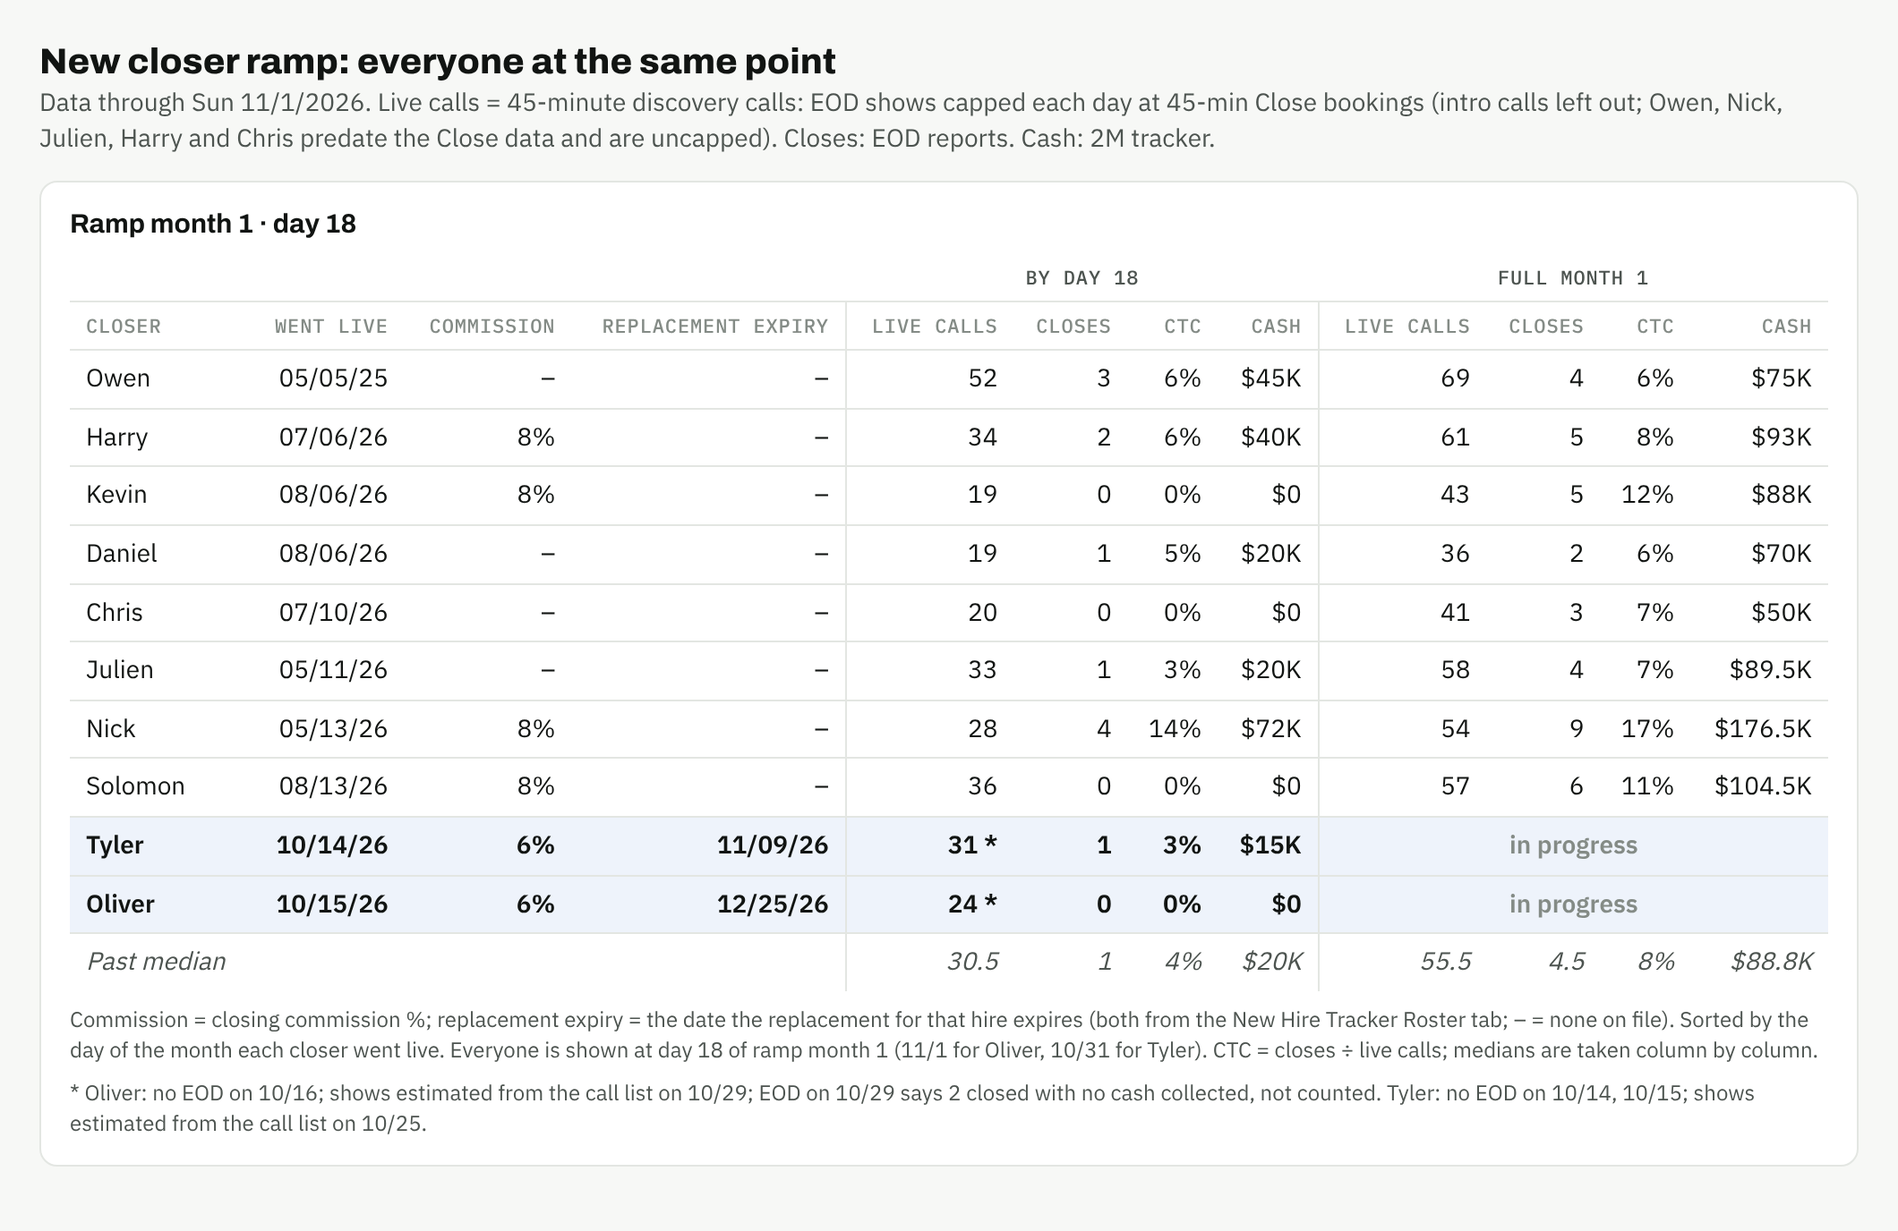
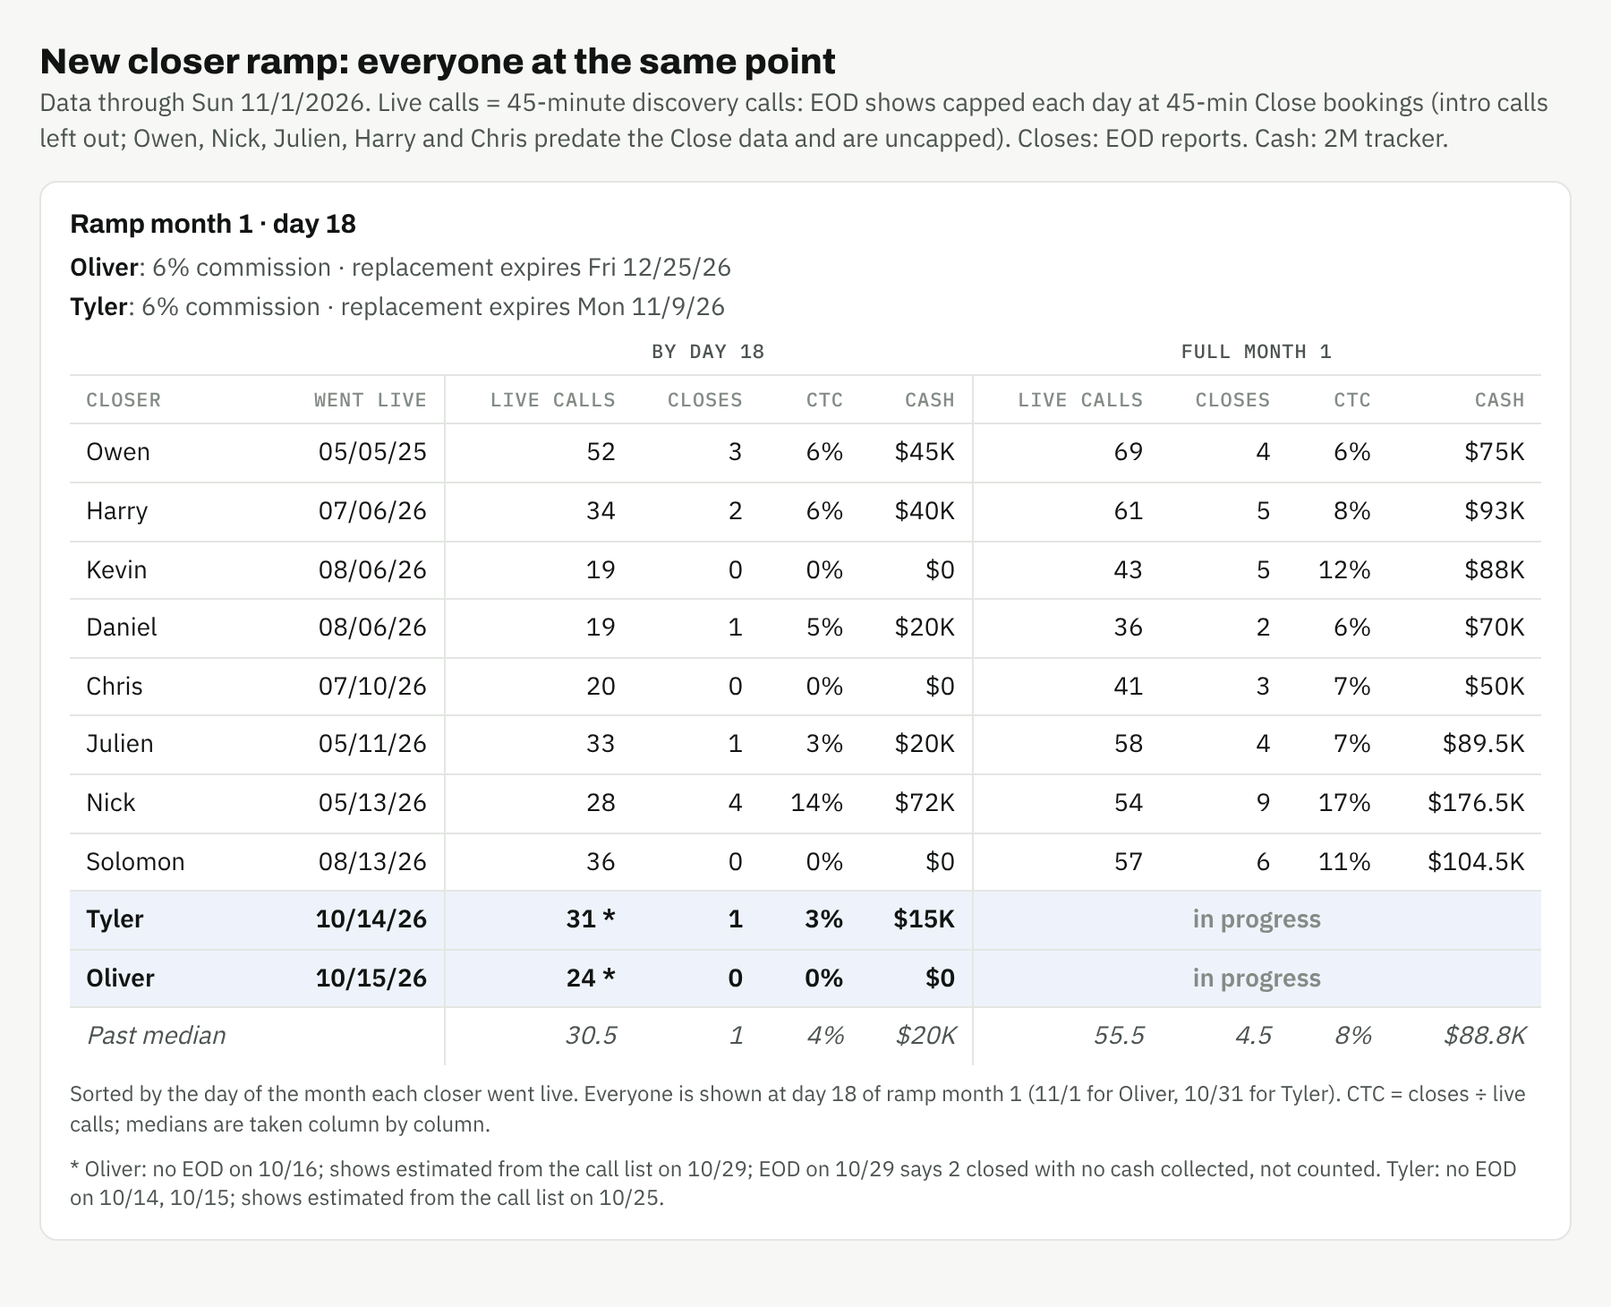
Ramp table: commission and replacement expiry as subtitles for the ramping reps
Replaces the two columns, which were blank or uniform for everyone else, with one line
per ramping rep under the table title.

Claude-Session: https://claude.ai/code/session_01D9LMPQn5wBkznxh856E6g3

diff --git a/outputs/2026-11-02/weekly_table.html b/outputs/2026-11-02/weekly_table.html
@@ -1,7 +1,7 @@
 <!doctype html><html><head><meta charset='utf-8'><link rel='stylesheet' href='https://fonts.googleapis.com/css2?family=Archivo:wght@700;800&family=IBM+Plex+Sans:wght@400;600&family=IBM+Plex+Mono:wght@500&display=swap'><style>
 :root{--ink:#111412;--ink2:#4d5450;--muted:#848b86;--grid:#e3e6e2;--bg:#f7f8f6;--card:#fff;--hl:#eef3fb}
 *{box-sizing:border-box}body{margin:0;background:var(--bg);font:14px/1.4 'IBM Plex Sans',-apple-system,'Segoe UI',Helvetica,Arial,sans-serif;color:var(--ink)}
-.wrap{width:1060px;padding:22px}
+.wrap{width:900px;padding:22px}
 h1{font:800 20px/1.2 Archivo,-apple-system,'Segoe UI',sans-serif;margin:0 0 2px}.lede{color:var(--ink2);margin:0 0 14px}
 section{background:var(--card);border:1px solid var(--grid);border-radius:10px;padding:14px 16px;margin-bottom:14px}
 h2{font:700 15px/1.2 Archivo,-apple-system,'Segoe UI',sans-serif;margin:0 0 8px}
@@ -15,4 +15,6 @@ tr.cur td{font-weight:600;background:var(--hl)}
 td.ip{text-align:center;color:var(--muted);font-weight:400}
 tr.med td{color:var(--ink2);font-style:italic;border-bottom:none}
 .foot{font-size:12px;color:var(--ink2);margin:8px 0 0}
-</style></head><body><div class='wrap'><h1>New closer ramp: everyone at the same point</h1><p class='lede'>Data through Sun 11/1/2026. Live calls = 45-minute discovery calls: EOD shows capped each day at 45-min Close bookings (intro calls left out; Owen, Nick, Julien, Harry and Chris predate the Close data and are uncapped). Closes: EOD reports. Cash: 2M tracker.</p><section><h2>Ramp month 1 · day 18</h2><table><thead><tr><th></th><th></th><th></th><th></th><th colspan="4" class="grp">By day 18</th><th colspan="4" class="grp">Full month 1</th></tr><tr><th>Closer</th><th>Went live</th><th>Commission</th><th>Replacement expiry</th><th class="gs">Live calls</th><th>Closes</th><th>CTC</th><th>Cash</th><th class="gs">Live calls</th><th>Closes</th><th>CTC</th><th>Cash</th></tr></thead><tbody><tr><td>Owen</td><td>05/05/25</td><td>–</td><td>–</td><td class="gs">52</td><td>3</td><td>6%</td><td>$45K</td><td class="gs">69</td><td>4</td><td>6%</td><td>$75K</td></tr><tr><td>Harry</td><td>07/06/26</td><td>8%</td><td>–</td><td class="gs">34</td><td>2</td><td>6%</td><td>$40K</td><td class="gs">61</td><td>5</td><td>8%</td><td>$93K</td></tr><tr><td>Kevin</td><td>08/06/26</td><td>8%</td><td>–</td><td class="gs">19</td><td>0</td><td>0%</td><td>$0</td><td class="gs">43</td><td>5</td><td>12%</td><td>$88K</td></tr><tr><td>Daniel</td><td>08/06/26</td><td>–</td><td>–</td><td class="gs">19</td><td>1</td><td>5%</td><td>$20K</td><td class="gs">36</td><td>2</td><td>6%</td><td>$70K</td></tr><tr><td>Chris</td><td>07/10/26</td><td>–</td><td>–</td><td class="gs">20</td><td>0</td><td>0%</td><td>$0</td><td class="gs">41</td><td>3</td><td>7%</td><td>$50K</td></tr><tr><td>Julien</td><td>05/11/26</td><td>–</td><td>–</td><td class="gs">33</td><td>1</td><td>3%</td><td>$20K</td><td class="gs">58</td><td>4</td><td>7%</td><td>$89.5K</td></tr><tr><td>Nick</td><td>05/13/26</td><td>8%</td><td>–</td><td class="gs">28</td><td>4</td><td>14%</td><td>$72K</td><td class="gs">54</td><td>9</td><td>17%</td><td>$176.5K</td></tr><tr><td>Solomon</td><td>08/13/26</td><td>8%</td><td>–</td><td class="gs">36</td><td>0</td><td>0%</td><td>$0</td><td class="gs">57</td><td>6</td><td>11%</td><td>$104.5K</td></tr><tr class="cur"><td>Tyler</td><td>10/14/26</td><td>6%</td><td>11/09/26</td><td class="gs">31 *</td><td>1</td><td>3%</td><td>$15K</td><td class="gs ip" colspan="4">in progress</td></tr><tr class="cur"><td>Oliver</td><td>10/15/26</td><td>6%</td><td>12/25/26</td><td class="gs">24 *</td><td>0</td><td>0%</td><td>$0</td><td class="gs ip" colspan="4">in progress</td></tr><tr class="med"><td>Past median</td><td></td><td></td><td></td><td class="gs">30.5</td><td>1</td><td>4%</td><td>$20K</td><td class="gs">55.5</td><td>4.5</td><td>8%</td><td>$88.8K</td></tr></tbody></table><p class="foot">Commission = closing commission %; replacement expiry = the date the replacement for that hire expires (both from the New Hire Tracker Roster tab; – = none on file). Sorted by the day of the month each closer went live. Everyone is shown at day 18 of ramp month 1 (11/1 for Oliver, 10/31 for Tyler). CTC = closes ÷ live calls; medians are taken column by column.</p><p class="foot">* Oliver: no EOD on 10/16; shows estimated from the call list on 10/29; EOD on 10/29 says 2 closed with no cash collected, not counted. Tyler: no EOD on 10/14, 10/15; shows estimated from the call list on 10/25.</p></section></div></body></html>
+.sub{margin:0 0 2px;color:var(--ink2)}.sub b{color:var(--ink)}
+section h2+.sub{margin-top:-2px}section .sub:last-of-type{margin-bottom:10px}
+</style></head><body><div class='wrap'><h1>New closer ramp: everyone at the same point</h1><p class='lede'>Data through Sun 11/1/2026. Live calls = 45-minute discovery calls: EOD shows capped each day at 45-min Close bookings (intro calls left out; Owen, Nick, Julien, Harry and Chris predate the Close data and are uncapped). Closes: EOD reports. Cash: 2M tracker.</p><section><h2>Ramp month 1 · day 18</h2><p class="sub"><b>Oliver</b>: 6% commission · replacement expires Fri 12/25/26</p><p class="sub"><b>Tyler</b>: 6% commission · replacement expires Mon 11/9/26</p><table><thead><tr><th></th><th></th><th colspan="4" class="grp">By day 18</th><th colspan="4" class="grp">Full month 1</th></tr><tr><th>Closer</th><th>Went live</th><th class="gs">Live calls</th><th>Closes</th><th>CTC</th><th>Cash</th><th class="gs">Live calls</th><th>Closes</th><th>CTC</th><th>Cash</th></tr></thead><tbody><tr><td>Owen</td><td>05/05/25</td><td class="gs">52</td><td>3</td><td>6%</td><td>$45K</td><td class="gs">69</td><td>4</td><td>6%</td><td>$75K</td></tr><tr><td>Harry</td><td>07/06/26</td><td class="gs">34</td><td>2</td><td>6%</td><td>$40K</td><td class="gs">61</td><td>5</td><td>8%</td><td>$93K</td></tr><tr><td>Kevin</td><td>08/06/26</td><td class="gs">19</td><td>0</td><td>0%</td><td>$0</td><td class="gs">43</td><td>5</td><td>12%</td><td>$88K</td></tr><tr><td>Daniel</td><td>08/06/26</td><td class="gs">19</td><td>1</td><td>5%</td><td>$20K</td><td class="gs">36</td><td>2</td><td>6%</td><td>$70K</td></tr><tr><td>Chris</td><td>07/10/26</td><td class="gs">20</td><td>0</td><td>0%</td><td>$0</td><td class="gs">41</td><td>3</td><td>7%</td><td>$50K</td></tr><tr><td>Julien</td><td>05/11/26</td><td class="gs">33</td><td>1</td><td>3%</td><td>$20K</td><td class="gs">58</td><td>4</td><td>7%</td><td>$89.5K</td></tr><tr><td>Nick</td><td>05/13/26</td><td class="gs">28</td><td>4</td><td>14%</td><td>$72K</td><td class="gs">54</td><td>9</td><td>17%</td><td>$176.5K</td></tr><tr><td>Solomon</td><td>08/13/26</td><td class="gs">36</td><td>0</td><td>0%</td><td>$0</td><td class="gs">57</td><td>6</td><td>11%</td><td>$104.5K</td></tr><tr class="cur"><td>Tyler</td><td>10/14/26</td><td class="gs">31 *</td><td>1</td><td>3%</td><td>$15K</td><td class="gs ip" colspan="4">in progress</td></tr><tr class="cur"><td>Oliver</td><td>10/15/26</td><td class="gs">24 *</td><td>0</td><td>0%</td><td>$0</td><td class="gs ip" colspan="4">in progress</td></tr><tr class="med"><td>Past median</td><td></td><td class="gs">30.5</td><td>1</td><td>4%</td><td>$20K</td><td class="gs">55.5</td><td>4.5</td><td>8%</td><td>$88.8K</td></tr></tbody></table><p class="foot">Sorted by the day of the month each closer went live. Everyone is shown at day 18 of ramp month 1 (11/1 for Oliver, 10/31 for Tyler). CTC = closes ÷ live calls; medians are taken column by column.</p><p class="foot">* Oliver: no EOD on 10/16; shows estimated from the call list on 10/29; EOD on 10/29 says 2 closed with no cash collected, not counted. Tyler: no EOD on 10/14, 10/15; shows estimated from the call list on 10/25.</p></section></div></body></html>

diff --git a/outputs/2026-11-02/ramp_curve.html b/outputs/2026-11-02/ramp_curve.html
@@ -15,7 +15,7 @@
   --bg:#121413; --surface:#1a1c1b; --ink:#eef0ed; --ink2:#c0c5c1; --muted:#8e958f; --grid:#2c302d;
   --past:#4a504c; --median:#c0c5c1; --oliver:#3987e5; --tyler:#d95926; --target:#2fa52f; --floor:#d9a12a; color-scheme:dark}
 body{background:var(--bg);color:var(--ink);font:15px/1.5 var(--body)}
-.wrap{max-width:1120px;margin:0 auto;padding-block:28px 48px;padding-left:max(16px,env(safe-area-inset-left,0px));padding-right:max(16px,env(safe-area-inset-right,0px));display:flex;flex-direction:column;gap:22px}
+.wrap{max-width:880px;margin:0 auto;padding-block:28px 48px;padding-left:max(16px,env(safe-area-inset-left,0px));padding-right:max(16px,env(safe-area-inset-right,0px));display:flex;flex-direction:column;gap:22px}
 h1{font:800 clamp(24px,4vw,32px)/1.1 var(--display);margin:0;text-wrap:balance;letter-spacing:-.01em}
 h2{font:700 18px/1.2 var(--display);margin:0}
 .lede{color:var(--ink2);margin:6px 0 0;max-width:68ch}
@@ -51,6 +51,9 @@ thead th.grp{text-align:center;border-bottom:1px solid var(--grid);color:var(--i
 td.gs,thead tr:last-child th.gs{border-left:1px solid var(--grid)}
 .notes{font-size:13px;color:var(--ink2);display:flex;flex-direction:column;gap:6px;max-width:72ch}
 .notes p{margin:0}
+.subs{display:flex;flex-direction:column;gap:2px;color:var(--ink2);font-size:14px}
+.subs b{color:var(--ink);font-weight:600}
+.subs .sw{width:10px;height:10px;margin-right:6px;vertical-align:0}
 </style>
 
 <div class="wrap">
@@ -63,6 +66,7 @@ td.gs,thead tr:last-child th.gs{border-left:1px solid var(--grid)}
 
   <section class="card">
     <h2 id="tabletitle"></h2>
+    <div id="subs" class="subs"></div>
     <div class="tablewrap"><table id="tbl"></table></div>
   </section>
 
@@ -89,6 +93,8 @@ const MED = {cash: medianSeries("cash"), live: medianSeries("live")};
 // Standings table: same-day columns, then full month 1 for past closers.
 const D = Math.min(...CUR.map(n=>DATA[n].cash.length)), LD = Math.min(...CUR.map(n=>DATA[n].live.length));
 document.getElementById("tabletitle").textContent = `Everyone at the same point in month 1`;
+const expLong = n => { const x = ROSTER[n] && ROSTER[n].x; if (!x) return null; const dt = new Date(x + "T12:00:00"); return dt.toLocaleDateString("en-US", {weekday:"short", month:"numeric", day:"numeric", year:"2-digit"}); };
+document.getElementById("subs").innerHTML = CUR.map(n => { const bits = []; if (ROSTER[n] && ROSTER[n].c != null) bits.push(comm(n) + " commission"); const e = expLong(n); if (e) bits.push("replacement expires " + e); return bits.length ? `<div><span class="sw" style="background:${COLOR[n]}"></span><b>${n}</b>: ${bits.join(" · ")}</div>` : ""; }).join("");
 const pct = (c,l) => l ? Math.round(c/l*100) + "%" : "–";
 const rows = Object.keys(DATA).map(n => { const d = DATA[n], f = d.current ? null : d.live.length - 1;
   return {n, cur:d.current, cash:d.cash[D-1], live:d.live[LD-1], cl:d.closes[LD-1],
@@ -99,13 +105,13 @@ const mdCtc = k => median(P.map(r => r[k[1]] ? r[k[0]]/r[k[1]] : 0));
 const sw = r => r.cur ? `<span class="sw" style="background:${COLOR[r.n]};margin-right:8px;vertical-align:-1px"></span>` : "";
 const star = r => r.cur ? " *" : "";
 document.getElementById("tbl").innerHTML =
-  `<thead><tr><th></th><th></th><th></th><th></th><th colspan="4" class="grp">By day ${D}</th><th colspan="4" class="grp">Full month 1</th></tr>
-   <tr><th>Closer</th><th>Went live</th><th>Commission</th><th>Replacement expiry</th><th>Live calls</th><th>Closes</th><th>CTC</th><th>Cash</th><th>Live calls</th><th>Closes</th><th>CTC</th><th>Cash</th></tr></thead><tbody>` +
-  rows.map(r=>`<tr class="${r.cur?"cur":""}"><td>${sw(r)}${r.n}</td><td>${DATA[r.n].go_live.slice(5).replace("-","/")}/${DATA[r.n].go_live.slice(2,4)}</td><td>${comm(r.n)}</td><td>${expiry(r.n)}</td>
+  `<thead><tr><th></th><th></th><th colspan="4" class="grp">By day ${D}</th><th colspan="4" class="grp">Full month 1</th></tr>
+   <tr><th>Closer</th><th>Went live</th><th>Live calls</th><th>Closes</th><th>CTC</th><th>Cash</th><th>Live calls</th><th>Closes</th><th>CTC</th><th>Cash</th></tr></thead><tbody>` +
+  rows.map(r=>`<tr class="${r.cur?"cur":""}"><td>${sw(r)}${r.n}</td><td>${DATA[r.n].go_live.slice(5).replace("-","/")}/${DATA[r.n].go_live.slice(2,4)}</td>
     <td class="gs">${r.live}${star(r)}</td><td>${r.cl}</td><td>${pct(r.cl,r.live)}</td><td>${fmt$(r.cash)}</td>
     ${r.cur ? `<td class="gs" colspan="4" style="text-align:center;color:var(--muted);font-weight:400">in progress</td>` :
       `<td class="gs">${r.fLive}</td><td>${r.fCl}</td><td>${pct(r.fCl,r.fLive)}</td><td>${fmt$(r.fCash)}</td>`}</tr>`).join("") +
-  `<tr class="med"><td>Past median</td><td></td><td></td><td></td><td class="gs">${md("live")}</td><td>${md("cl")}</td><td>${Math.round(mdCtc(["cl","live"])*100)}%</td><td>${fmt$(md("cash"))}</td>
+  `<tr class="med"><td>Past median</td><td></td><td class="gs">${md("live")}</td><td>${md("cl")}</td><td>${Math.round(mdCtc(["cl","live"])*100)}%</td><td>${fmt$(md("cash"))}</td>
     <td class="gs">${md("fLive")}</td><td>${md("fCl")}</td><td>${Math.round(mdCtc(["fCl","fLive"])*100)}%</td><td>${fmt$(md("fCash"))}</td></tr></tbody>`;
-document.getElementById("tbl").insertAdjacentHTML("afterend", `<p class="foot">Commission = closing commission %. Replacement expiry = the date the replacement for that hire expires. Both come from the New Hire Tracker Roster tab, and – means none on file. Sorted by the day of the month each closer went live. Everyone is shown at day ${D}, which is 11/1 for Oliver and 10/31 for Tyler. Live calls = 45-minute discovery calls only: each day's EOD shows are capped at that day's 45-minute bookings in Close, so 15-minute intro (setter) calls aren't counted. Kevin, Daniel and Solomon are capped the same way; Owen, Nick, Julien, Harry and Chris ramped before the Close data I have (it starts 8/1), so theirs are uncapped EOD shows. CTC = closes ÷ live calls. Medians are taken column by column, so the median CTC isn't the median closes ÷ median live calls.<br>* Oliver's 10/29 EOD says 2 closed, but it collected $0, every call it lists ended with a follow-up booked, and the tracker has no close for him, so it's counted as 0 here. Tyler's one close is 10/30, for $15K.</p>`);
+document.getElementById("tbl").insertAdjacentHTML("afterend", `<p class="foot">Sorted by the day of the month each closer went live. Everyone is shown at day ${D}, which is 11/1 for Oliver and 10/31 for Tyler. Live calls = 45-minute discovery calls only: each day's EOD shows are capped at that day's 45-minute bookings in Close, so 15-minute intro (setter) calls aren't counted. Kevin, Daniel and Solomon are capped the same way; Owen, Nick, Julien, Harry and Chris ramped before the Close data I have (it starts 8/1), so theirs are uncapped EOD shows. CTC = closes ÷ live calls. Medians are taken column by column, so the median CTC isn't the median closes ÷ median live calls.<br>* Oliver's 10/29 EOD says 2 closed, but it collected $0, every call it lists ended with a follow-up booked, and the tracker has no close for him, so it's counted as 0 here. Tyler's one close is 10/30, for $15K.</p>`);
 </script>

diff --git a/ramp/weekly_table.py b/ramp/weekly_table.py
@@ -193,17 +193,13 @@ def table_html(t):
             full = (f'<td class="gs">{r["f_live"]}</td><td>{r["f_closes"]}</td><td>{ctc(r["f_closes"], r["f_live"])}</td>'
                     f'<td>{fmt_money(r["f_cash"])}</td>')
         cls = ' class="cur"' if r["cur"] else ""
-        pp = t["people"][r["name"]]
-        comm = f'{pp["commission_pct"] * 100:g}%' if pp.get("commission_pct") is not None else "–"
-        dl = d(pp["replacement_deadline"]).strftime("%m/%d/%y") if pp.get("replacement_deadline") else "–"
-        trs.append(f'<tr{cls}><td>{escape(r["name"])}</td><td>{r["go_live"]:%m/%d/%y}</td><td>{comm}</td><td>{dl}</td>{same}{full}</tr>')
+        trs.append(f'<tr{cls}><td>{escape(r["name"])}</td><td>{r["go_live"]:%m/%d/%y}</td>{same}{full}</tr>')
     m = median_row(t["past"])
-    trs.append(f'<tr class="med"><td>Past median</td><td></td><td></td><td></td><td class="gs">{num(m["live"])}</td><td>{num(m["closes"])}</td>'
+    trs.append(f'<tr class="med"><td>Past median</td><td></td><td class="gs">{num(m["live"])}</td><td>{num(m["closes"])}</td>'
                f'<td>{round(m["ctc"] * 100)}%</td><td>{fmt_money(m["cash"])}</td><td class="gs">{num(m["f_live"])}</td>'
                f'<td>{num(m["f_closes"])}</td><td>{round(m["f_ctc"] * 100)}%</td><td>{fmt_money(m["f_cash"])}</td></tr>')
     when = ", ".join(f'{r["end"]:%-m/%-d} for {r["name"]}' for r in t["current"])
-    notes = [f"Commission = closing commission %; replacement expiry = the date the replacement for that hire expires (both from the New Hire Tracker Roster tab; – = none on file). "
-             f"Sorted by the day of the month each closer went live. Everyone is shown at day {day} of ramp month {k} ({when}). "
+    notes = [f"Sorted by the day of the month each closer went live. Everyone is shown at day {day} of ramp month {k} ({when}). "
              "CTC = closes ÷ live calls; medians are taken column by column."]
     star = []
     for r in t["current"]:
@@ -218,9 +214,19 @@ def table_html(t):
             star.append(f"{r['name']}: " + "; ".join(bits))
     if star:
         notes.append("* " + ". ".join(star) + ".")
-    return (f'<section><h2>Ramp month {k} · day {day}</h2>'
-            f'<table><thead><tr><th></th><th></th><th></th><th></th><th colspan="4" class="grp">By day {day}</th><th colspan="4" class="grp">Full month {k}</th></tr>'
-            '<tr><th>Closer</th><th>Went live</th><th>Commission</th><th>Replacement expiry</th><th class="gs">Live calls</th><th>Closes</th><th>CTC</th><th>Cash</th>'
+    subs = []
+    for r in t["current"]:
+        pp = t["people"][r["name"]]
+        bits = []
+        if pp.get("commission_pct") is not None:
+            bits.append(f'{pp["commission_pct"] * 100:g}% commission')
+        if pp.get("replacement_deadline"):
+            bits.append(f'replacement expires {d(pp["replacement_deadline"]):%a %-m/%-d/%y}')
+        if bits:
+            subs.append(f'<p class="sub"><b>{escape(r["name"])}</b>: {" · ".join(bits)}</p>')
+    return (f'<section><h2>Ramp month {k} · day {day}</h2>' + "".join(subs) +
+            f'<table><thead><tr><th></th><th></th><th colspan="4" class="grp">By day {day}</th><th colspan="4" class="grp">Full month {k}</th></tr>'
+            '<tr><th>Closer</th><th>Went live</th><th class="gs">Live calls</th><th>Closes</th><th>CTC</th><th>Cash</th>'
             '<th class="gs">Live calls</th><th>Closes</th><th>CTC</th><th>Cash</th></tr></thead>'
             f'<tbody>{"".join(trs)}</tbody></table>' + "".join(f'<p class="foot">{escape(n)}</p>' for n in notes) + "</section>")
 
@@ -228,7 +234,7 @@ def table_html(t):
 CSS = """
 :root{--ink:#111412;--ink2:#4d5450;--muted:#848b86;--grid:#e3e6e2;--bg:#f7f8f6;--card:#fff;--hl:#eef3fb}
 *{box-sizing:border-box}body{margin:0;background:var(--bg);font:14px/1.4 'IBM Plex Sans',-apple-system,'Segoe UI',Helvetica,Arial,sans-serif;color:var(--ink)}
-.wrap{width:1060px;padding:22px}
+.wrap{width:900px;padding:22px}
 h1{font:800 20px/1.2 Archivo,-apple-system,'Segoe UI',sans-serif;margin:0 0 2px}.lede{color:var(--ink2);margin:0 0 14px}
 section{background:var(--card);border:1px solid var(--grid);border-radius:10px;padding:14px 16px;margin-bottom:14px}
 h2{font:700 15px/1.2 Archivo,-apple-system,'Segoe UI',sans-serif;margin:0 0 8px}
@@ -242,6 +248,8 @@ tr.cur td{font-weight:600;background:var(--hl)}
 td.ip{text-align:center;color:var(--muted);font-weight:400}
 tr.med td{color:var(--ink2);font-style:italic;border-bottom:none}
 .foot{font-size:12px;color:var(--ink2);margin:8px 0 0}
+.sub{margin:0 0 2px;color:var(--ink2)}.sub b{color:var(--ink)}
+section h2+.sub{margin-top:-2px}section .sub:last-of-type{margin-bottom:10px}
 """
 
 
@@ -266,7 +274,7 @@ def render(run_date):
             + f" (past median {num(median_row(t['past'])['live'])} live, {fmt_money(median_row(t['past'])['cash'])})")
     (out / "weekly_table.md").write_text("\n".join(md) + "\n")
     js = ("const {chromium}=require('playwright');(async()=>{const b=await chromium.launch();"
-          "const p=await b.newPage({viewport:{width:1104,height:400},deviceScaleFactor:2});"
+          "const p=await b.newPage({viewport:{width:944,height:400},deviceScaleFactor:2});"
           f"await p.goto('file://{out / 'weekly_table.html'}');await p.waitForTimeout(600);"
           f"await p.locator('.wrap').screenshot({{path:'{out / 'weekly_table.png'}'}});await b.close();}})();")
     subprocess.run(["node", "-e", js], check=True)
